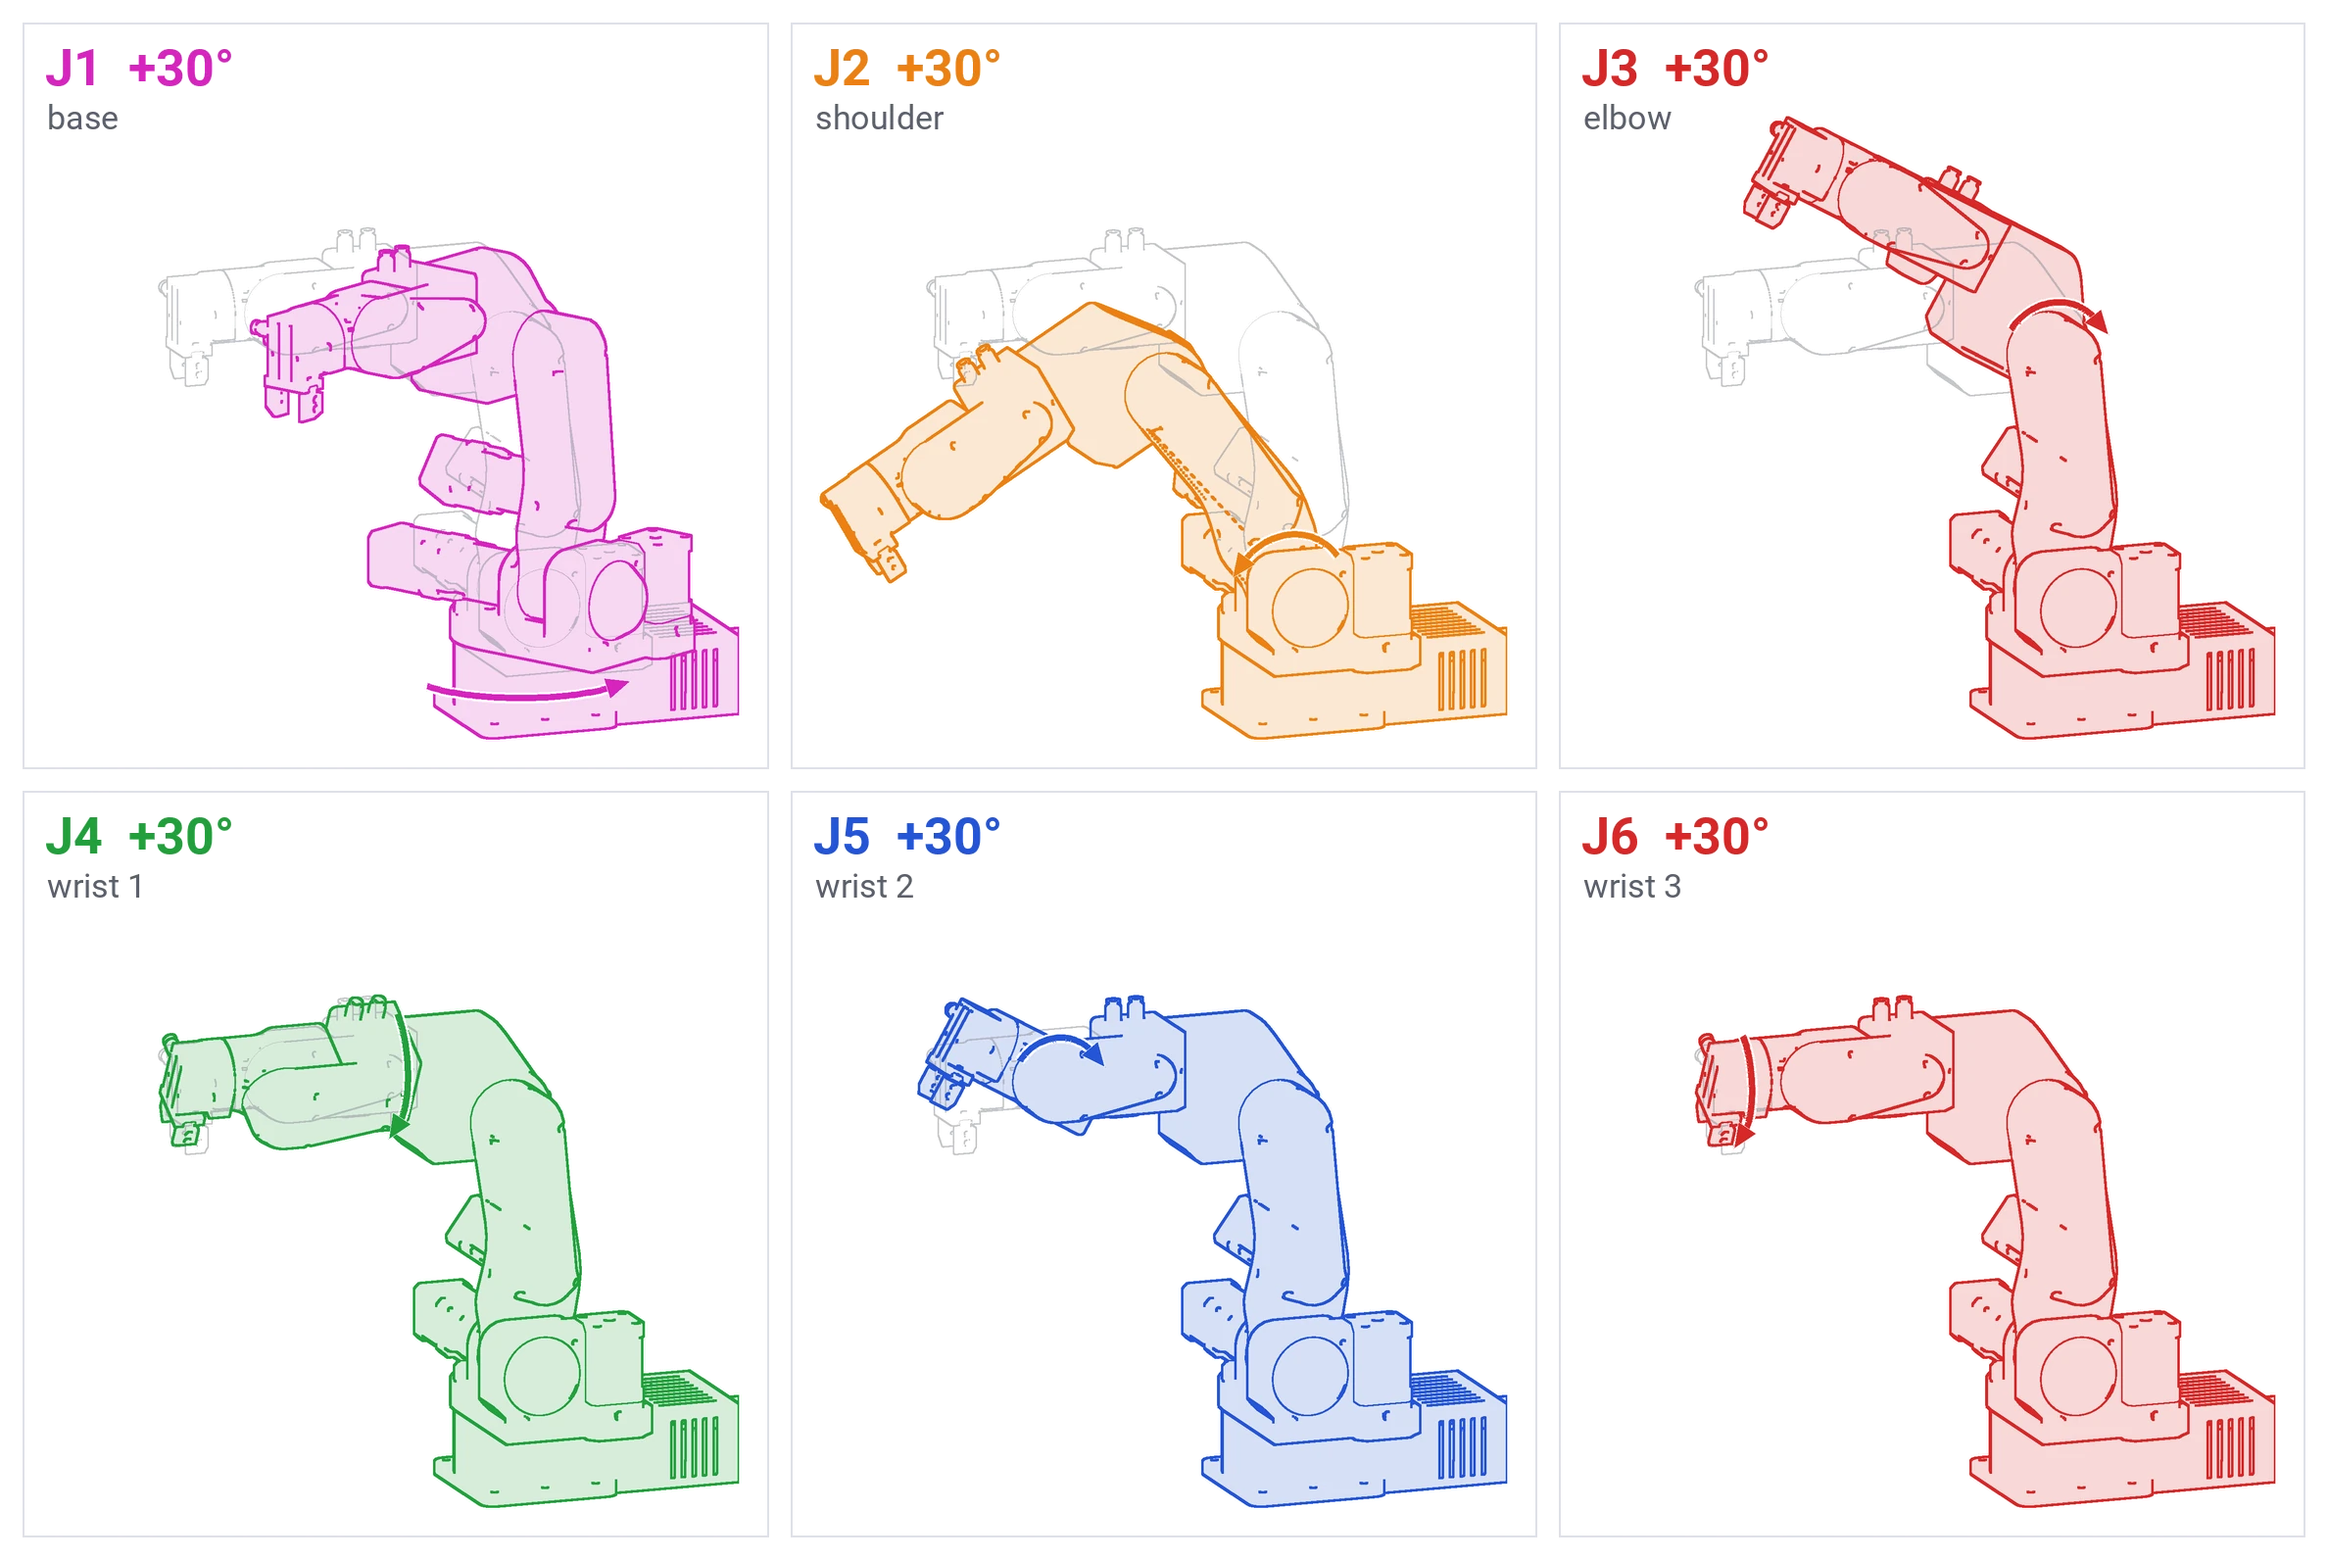
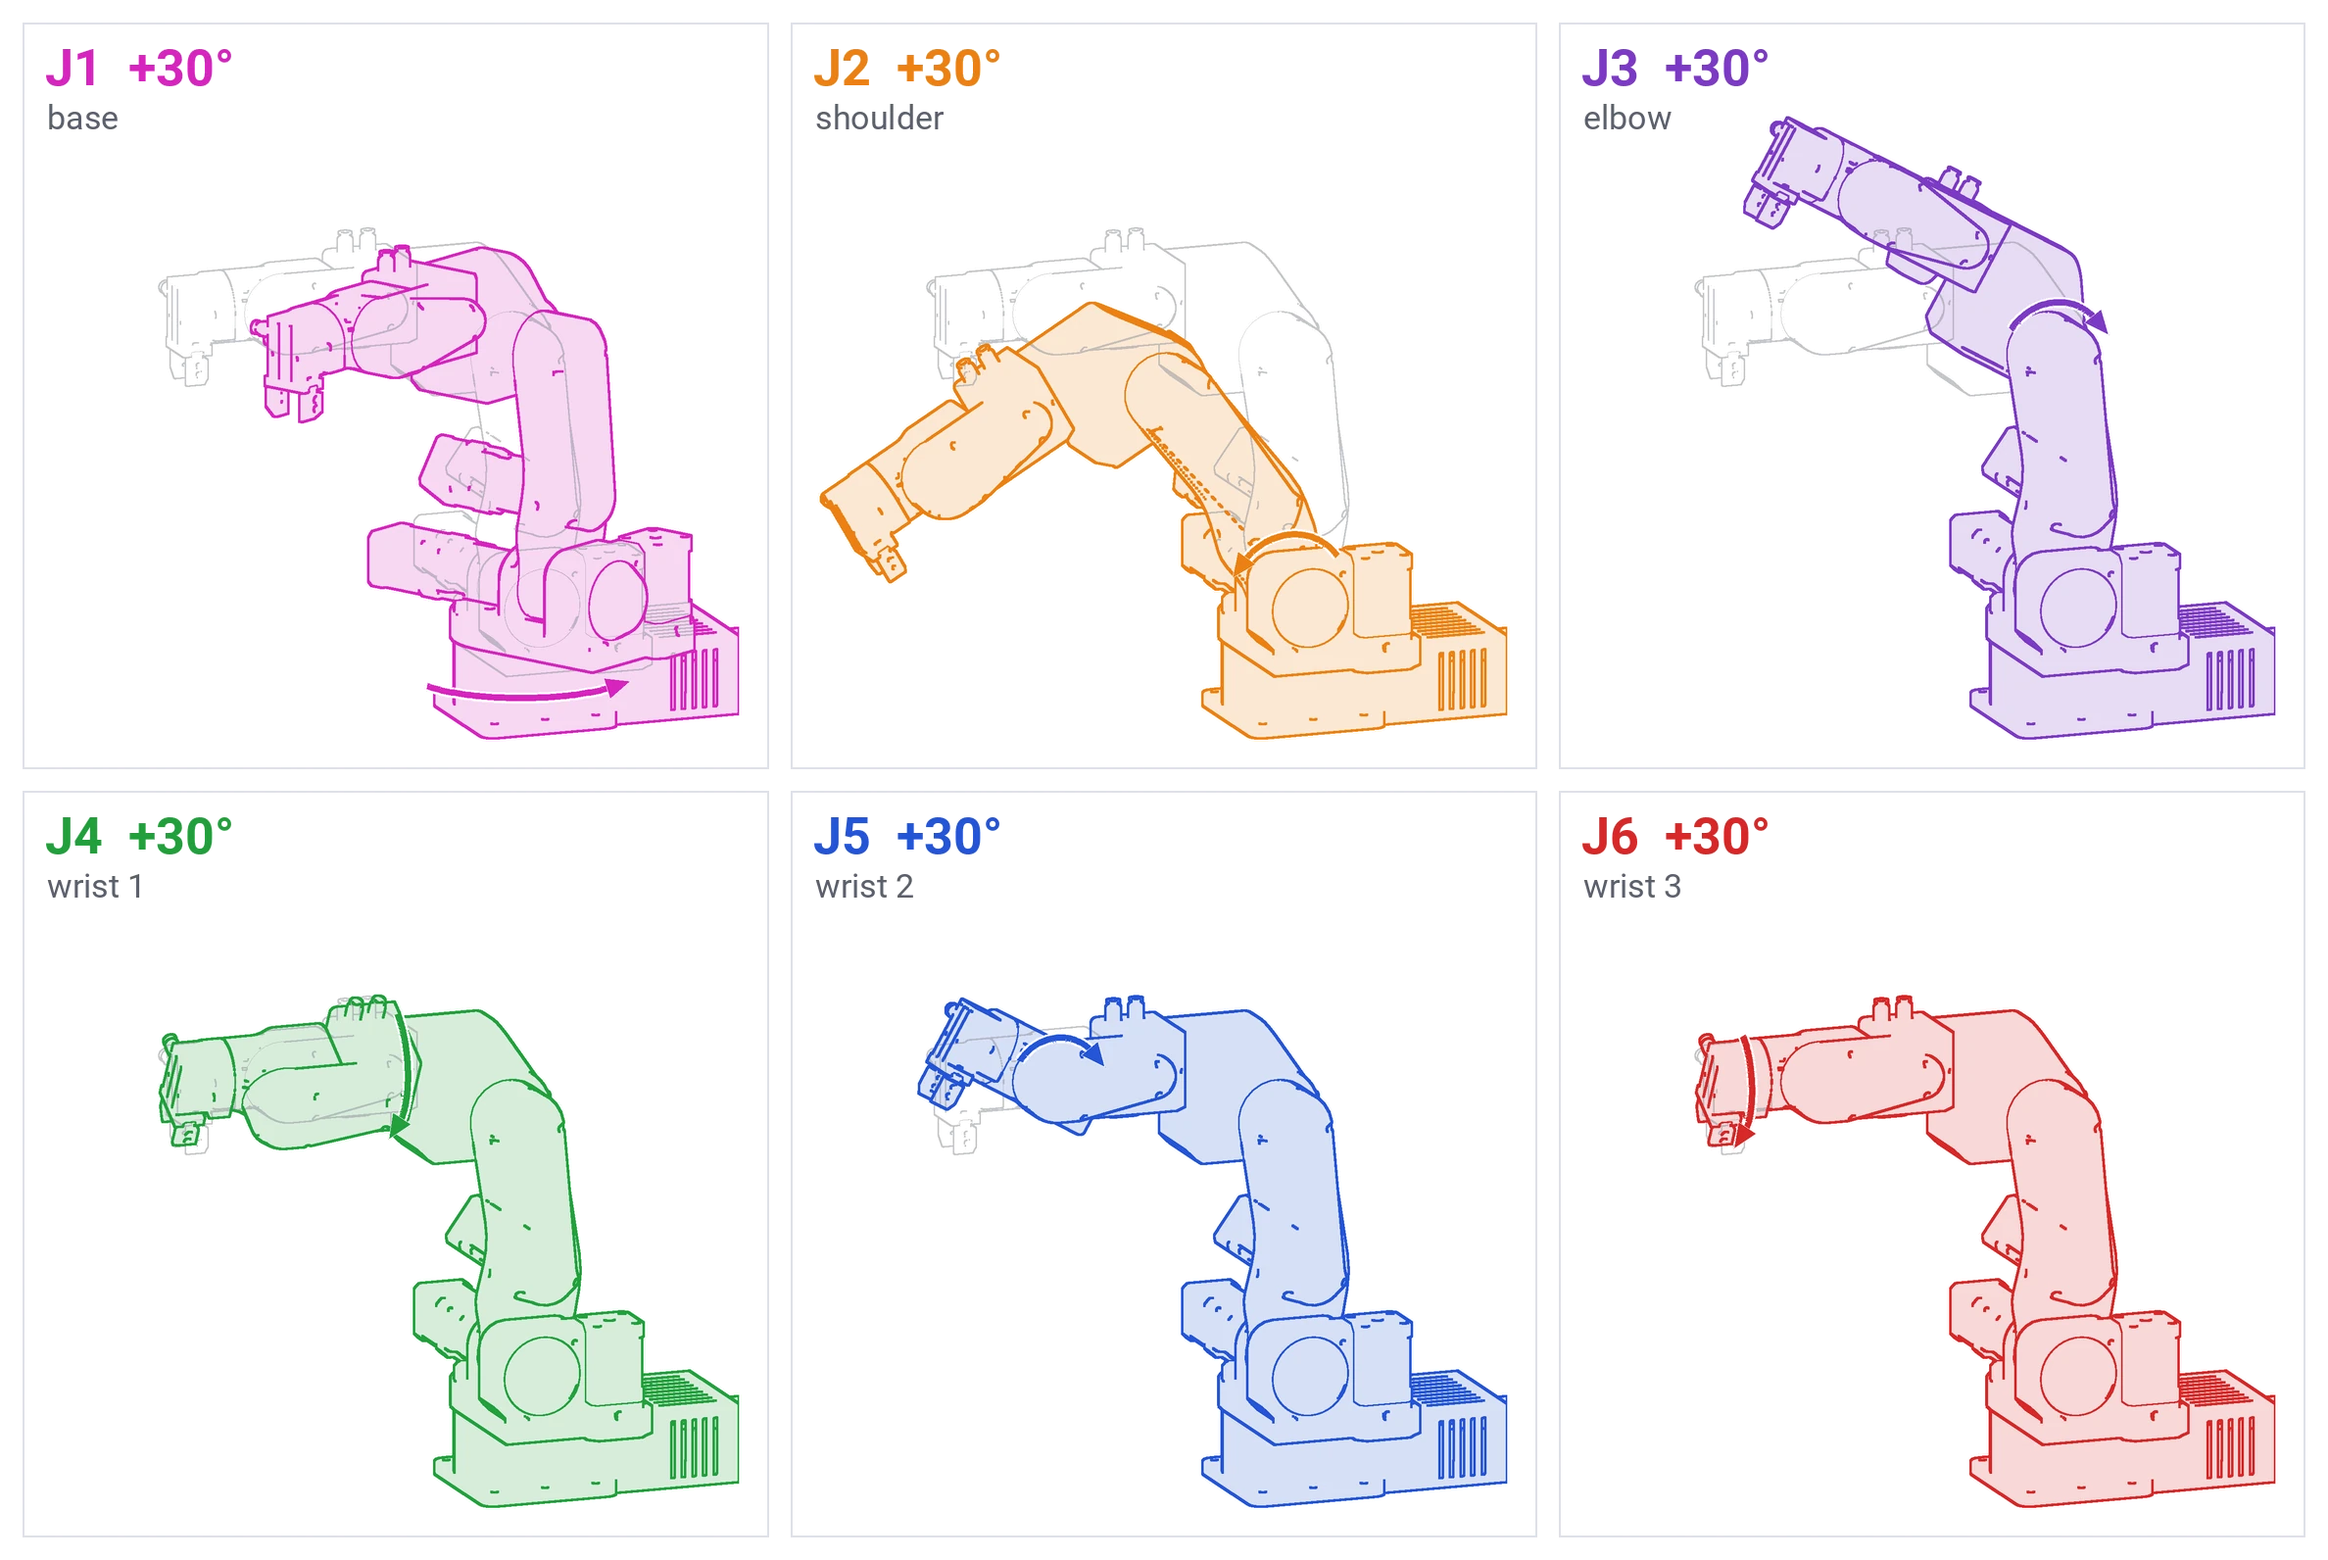
Numbered figure captions; joint 5 range from the model; J3 purple; the one-turn rule for every joint
- hooks/figures.py: every standalone picture (a light/dark pair counts once) becomes the manuals' figure form,
  <figure> with "Figure 3.2: <alt text>", numbered per chapter in nav order, per page elsewhere; heroes and
  pictures inside text are left alone. Runs after llms.py, so the Markdown twins keep plain pictures. Tests E1-E3.
- Joint 5's range (moving by hand, joint limits): the hand-drawn Limits_j5.webp replaced by a figure from the
  model, J5 at -120 and +120 degrees over the zero pose, light and dark (tools/robot-figures/limits_fig.py).
- Joint directions figure: J3 purple (owner), no longer red like J6.
- Never more than one turn: now said of every joint, by hand or by software; the one exception is joint 6 during
  assembly, and after assembly only where nothing runs through it.

Changed region(s): [[0.6852, 0.0308, 0.9966, 0.4925]]

diff --git a/hooks/figures.py b/hooks/figures.py
@@ -1,0 +1,107 @@
+"""Captions under the pictures: every standalone picture becomes a numbered figure, its description the caption.
+
+A picture on a line of its own, with a blank line (or the start of its block) before and after it, is wrapped in the
+manuals' figure form (the same as Source-Robotics/par6's devlab "Figure with a numbered caption"):
+
+    <figure markdown="span">
+      ![alt](picture.webp#only-light){ width="900" }
+      ![alt](picture_dark.webp#only-dark){ width="900" }
+      <figcaption>Figure 3.2: alt.</figcaption>
+    </figure>
+
+A light and a dark version of one picture (two lines, #only-light and #only-dark) are one figure. The caption is the
+picture's alt text, so a picture is described once. Numbering: per chapter in reading order (nav order) for pages
+under a numbered chapter folder or file (03-technical-data/..., 09-transport.md, board/05-...: "Figure 3.2"),
+per page elsewhere ("Figure 2"). Pictures with the class .hero, pictures inside a paragraph of text and pictures
+without alt text are left as they are. Registered in mkdocs.yml under `hooks:`, after llms.py, so the Markdown twins
+keep plain pictures.
+"""
+from __future__ import annotations
+
+import html
+import re
+from collections import defaultdict
+from pathlib import Path
+
+IMG = re.compile(r"^(?P<ind>[ \t]*)!\[(?P<alt>[^\]]+)\]\((?P<src>[^)\s]+)\)(?P<attr>\{[^}]*\})?[ \t]*$")
+NUMBERED = re.compile(r"^(\d{2})-")
+_start: dict[str, int] = {}
+
+
+def chapter(uri: str) -> tuple[str, str]:
+    """(counter key, label prefix): a numbered chapter counts across its pages, any other page on its own."""
+    parts = uri.replace("\\", "/").split("/")
+    for i, part in enumerate(parts):
+        m = NUMBERED.match(part)
+        if m:
+            return "/".join(parts[:i + 1]), f"{int(m.group(1))}."
+    return uri, ""
+
+
+def figure_runs(lines: list[str]):
+    """(first, last) line index of each run of one or two standalone pictures that makes one figure."""
+    runs, i = [], 0
+    while i < len(lines):
+        m = IMG.match(lines[i])
+        if not m or ".hero" in (m["attr"] or "") or (i > 0 and lines[i - 1].strip()
+                                                         and not lines[i - 1].lstrip().startswith(("===", "!!!", "???"))):
+            i += 1
+            continue
+        j = i
+        if j + 1 < len(lines):
+            n = IMG.match(lines[j + 1])
+            if n and n["ind"] == m["ind"] and ("#only-light" in m["src"] or "#only-dark" in m["src"]):
+                j += 1
+        if j + 1 < len(lines) and lines[j + 1].strip():
+            i = j + 1
+            continue
+        runs.append((i, j))
+        i = j + 1
+    return runs
+
+
+def wrap(lines: list[str], first: int, last: int, label: str) -> list[str]:
+    m = IMG.match(lines[first])
+    ind = m["ind"]
+    alt = m["alt"].strip()
+    caption = alt if alt.endswith((".", "!", "?")) else alt + "."
+    out = [f'{ind}<figure markdown="span">']
+    out += [f"{ind}  {lines[k].strip()}" for k in range(first, last + 1)]
+    out += [f"{ind}  <figcaption>Figure {label}: {html.escape(caption, quote=False)}</figcaption>", f"{ind}</figure>"]
+    return out
+
+
+def transform(markdown: str, start: int, prefix: str) -> tuple[str, int]:
+    lines = markdown.split("\n")
+    runs = figure_runs(lines)
+    n = start
+    labels = {}
+    for first, last in runs:
+        n += 1
+        labels[first] = f"{prefix}{n}"
+    for first, last in reversed(runs):
+        lines[first:last + 1] = wrap(lines, first, last, labels[first])
+    return "\n".join(lines), len(runs)
+
+
+def on_nav(nav, config, files):
+    """Number in reading order: count each page's figures in nav order, per chapter."""
+    _start.clear()
+    count = defaultdict(int)
+    for page in nav.pages:
+        uri = page.file.src_uri
+        key, _ = chapter(uri)
+        try:
+            text = Path(page.file.abs_src_path).read_text(encoding="utf-8").replace("\r\n", "\n")
+        except OSError:
+            continue
+        _start[uri] = count[key]
+        count[key] += len(figure_runs(text.split("\n")))
+    return nav
+
+
+def on_page_markdown(markdown, page, config, files):
+    uri = page.file.src_uri
+    _, prefix = chapter(uri)
+    text, _ = transform(markdown.replace("\r\n", "\n"), _start.get(uri, 0), prefix)
+    return text

diff --git a/tools/test_tools.py b/tools/test_tools.py
@@ -201,6 +201,21 @@ check("D1 no source-robotics.github.io addresses, no PCrnjak paths of repositori
 odrive = [str(p.relative_to(DOCS)) for p in DOCS.rglob("*.md") if re.search(r"odrive|tinymovr", p.read_text(encoding="utf-8"), re.I)]
 check("D2 no references to other vendors' documentation", not odrive, "; ".join(odrive))
 
+# ---------------------------------------------------------------- E. the figures hook
+fig = load_module("figures_hook", ROOT / "hooks" / "figures.py")
+pair = "\n".join(["Text.", "", '![A robot](a.webp#only-light){ width="9" }',
+                  '![A robot](a_dark.webp#only-dark){ width="9" }', "", "More."])
+out, n = fig.transform(pair, 1, "3.")
+check("E1 a light and a dark picture are one figure, numbered on from the chapter's count, alt text as caption",
+      n == 1 and out.count("<figure") == 1 and "<figcaption>Figure 3.2: A robot.</figcaption>" in out, out)
+inline = "\n".join(["A line of text", "![A robot](a.webp)", "", "![Hero](h.webp){ .hero }", ""])
+out, n = fig.transform(inline, 0, "")
+check("E2 a picture inside a paragraph and a hero picture are left alone", n == 0 and "<figure" not in out, out)
+check("E3 numbered chapters count across pages, other pages on their own",
+      fig.chapter("03-technical-data/joint-limits.md") == ("03-technical-data", "3.")
+      and fig.chapter("board/05-stepper-drivers.md") == ("board/05-stepper-drivers.md", "5.")
+      and fig.chapter("theory/kinematics.md") == ("theory/kinematics.md", ""))
+
 print()
 if fails:
     print(f"{len(fails)} failed: " + ", ".join(fails))

diff --git a/docs/02-safety/moving-by-hand.md b/docs/02-safety/moving-by-hand.md
@@ -4,11 +4,13 @@ An unpowered PAROL6 can be moved by hand: the joints turn against the friction o
 the arm has no brakes to release. This is how you pose it for packing and how you lift it. Two rules:
 
 !!! danger "Never more than one turn"
-    **Joint 5** must never be turned more than one rotation, and **joint 6** and **joint 1** must never be spun a
-    full turn. Cables and pneumatic tubes run through them: a second turn wraps and tears them. Joint 1 has
-    printed blockers that stop it; if your build has none, the rule is yours to keep.
+    **No joint may ever be turned more than one full turn**, by hand or by software. Cables and pneumatic tubes
+    run through the joints, and a second turn wraps and tears them. The one exception is **joint 6**: it may turn
+    further during assembly, and after assembly only where nothing runs through it. Joint 1 has printed blockers
+    that stop it; if your build has none, the rule is yours to keep.
 
-![The range of joint 5](../assets/Limits_j5.webp){ width="700" }
+![Joint 5 at its lower and upper limit, -120 and +120 degrees, over the zero pose in grey. A gripper can reach the forearm before that: check the clearance with a slow jog](../assets/figures/parol6_j5_range.webp#only-light){ width="860" }
+![Joint 5 at its lower and upper limit, -120 and +120 degrees, over the zero pose in grey. A gripper can reach the forearm before that: check the clearance with a slow jog](../assets/figures/parol6_j5_range_dark.webp#only-dark){ width="860" }
 
 !!! danger "Not while the supply is connected"
     A stepper turned by hand generates voltage, and a quick move can switch the board on with the arm in your

diff --git a/docs/03-technical-data/joint-limits.md b/docs/03-technical-data/joint-limits.md
@@ -50,9 +50,11 @@ blockers; joint 5 by the length of its belt path; joint 6 only by the cables and
     what joint 2 can reach. The software limits do not know about either: check the real clearances with a slow
     jog before you run a program near a limit.
 
-!!! danger "Joint 5 and joint 6"
-    Joint 5 must never be turned more than one rotation, by hand or by software; joint 6 and joint 1 must never
-    be spun more than one turn. The cables and pneumatic tubes that pass through them wrap and tear.
-    [Moving the robot by hand](../02-safety/moving-by-hand.md) has the figure.
+!!! danger "Never more than one turn"
+    **No joint may ever be turned more than one full turn**, by hand or by software: the cables and pneumatic
+    tubes that pass through the joints wrap and tear. The one exception is **joint 6**: it may turn further during
+    assembly, and after assembly only where nothing runs through it
+    ([Moving the robot by hand](../02-safety/moving-by-hand.md)).
 
-![The range of joint 5](../assets/Limits_j5.webp){ width="700" }
+![Joint 5 at its lower and upper limit, -120 and +120 degrees, over the zero pose in grey. A gripper can reach the forearm before that: check the clearance with a slow jog](../assets/figures/parol6_j5_range.webp#only-light){ width="860" }
+![Joint 5 at its lower and upper limit, -120 and +120 degrees, over the zero pose in grey. A gripper can reach the forearm before that: check the clearance with a slow jog](../assets/figures/parol6_j5_range_dark.webp#only-dark){ width="860" }
